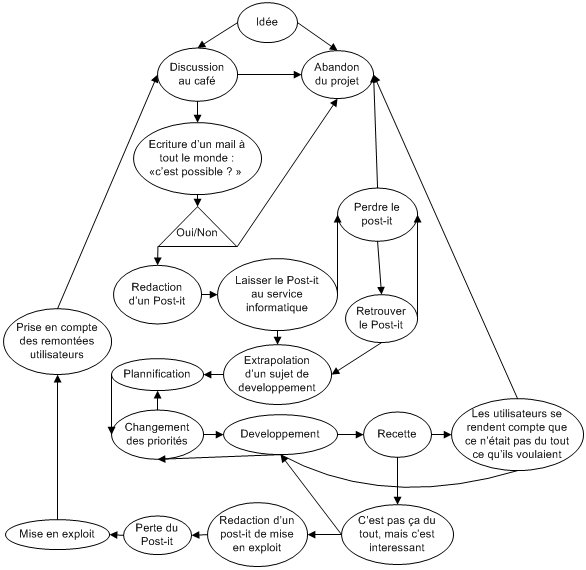
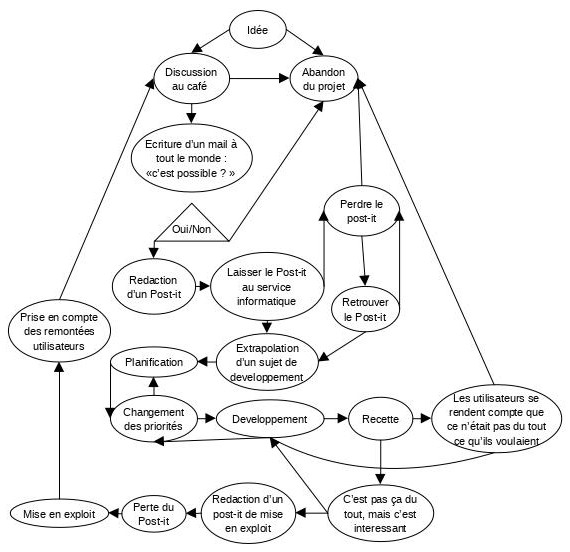
Correction d'une typo sur le graphe. (sources seulement)
Conformément à la méthodologie décrite ici, aucun soin n'a été apporté
au maintient de la compatibilité envers les auteurs originels, et le
.vsd a avantageusement été remplacé par son équivalent LibreOffice
(premier programme trouvé qui soit capable de l'ouvrir).

diff --git a/src/presentation.html b/src/presentation.html
@@ -46,6 +46,6 @@
 
         <p><img src="img/process.jpg" alt="process" /></p>
 
-        <p>[<a href="img/process_rache.vsd">Le fichier
-        VISIO</a>]<br /></p>
+        <p>[<a href="img/process_rache.odg">Le fichier
+        ODG</a>]<br /></p>
 {{FOOTER}}
